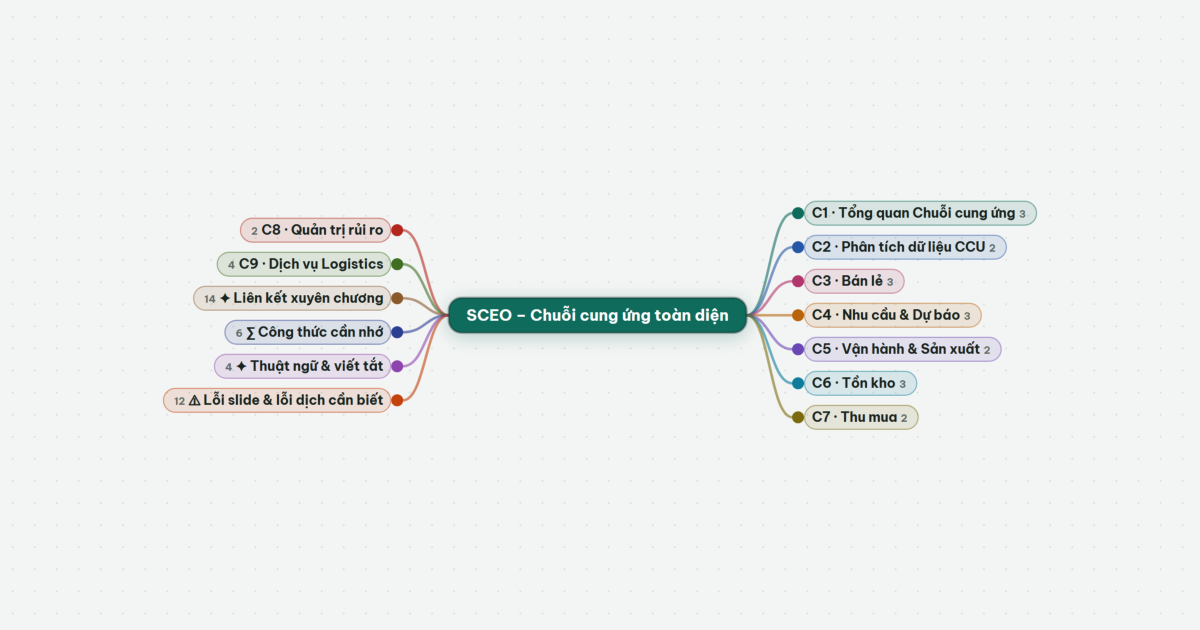
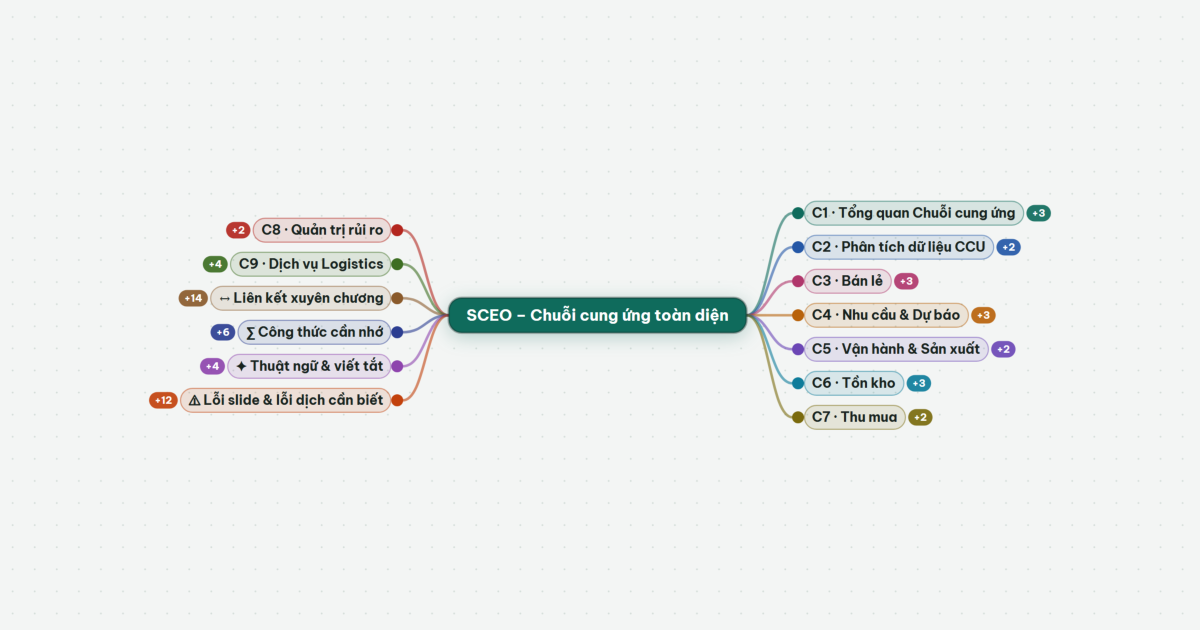
Thay số đếm trần bằng huy hiệu +N, thêm chú thích khi rê chuột
- Số trần (vd "12") trước tên nhánh dễ hiểu nhầm là số thứ tự/điểm → đổi thành
  huy hiệu "+12" màu theo nhánh, đặt ở đầu ngoài nơi nhánh con sẽ mọc ra
- Tooltip mỗi nút: tên đầy đủ + "N nhánh con – bấm để mở" / "bấm để thu gọn"
- Bảng chi tiết: "8 mục" thay cho số trần; chú thích giải thích +N và chấm đặc/rỗng
- Bấm vào chủ đề gốc không còn ẩn toàn bộ 13 nhánh
- Nhánh Liên kết xuyên chương dùng ký hiệu ↔ riêng (trước trùng ✦ với Thuật ngữ)
- Cập nhật ảnh xem trước chia sẻ

diff --git a/index.html b/index.html
@@ -393,10 +393,19 @@
       stroke-width: 2
     }
 
-    .node .cnt {
-      font-size: 11px;
-      font-weight: 700;
-      fill: var(--muted)
+    .node .badge text {
+      font: 700 11px var(--font);
+      fill: var(--surface) !important;
+      stroke: none;
+      text-decoration: none !important
+    }
+
+    .node .badge rect {
+      opacity: .92
+    }
+
+    .node:hover .badge rect {
+      opacity: 1
     }
 
     .node {
@@ -736,7 +745,8 @@
 
     .kids button small {
       flex: none;
-      font: 700 11px var(--mono);
+      font: 600 11.5px var(--font);
+      white-space: nowrap;
       color: var(--muted);
       background: var(--bg);
       border-radius: 999px;
@@ -1579,7 +1589,7 @@ SCEO – Chuỗi cung ứng toàn diện :: Bộ 9 chương VILAS SC Essentials 
         {!} Lưu ý dịch slide 7R :: Bản Việt thay “Đúng số lượng” bằng “Đúng chất lượng”. Bản gốc tiếng Anh là RIGHT QUANTITY – học theo bản gốc.
       Phương thức – Phương tiện – Loại hình :: • Phương thức (mode): đường bộ, biển, hàng không, sắt, ống. ¶• Phương tiện: tàu, sà lan, xe tải, máy bay… ¶• Loại hình (cách thực hiện vận chuyển): Đơn phương thức (1 mode) · Liên phương thức – Intermodal (nhiều mode, theo slide Việt: KHÔNG đổi phương tiện chứa hàng – VD cùng một container) · Đa phương thức – Multimodal (nhiều mode, CÓ thay đổi phương tiện) · Vận tải kết hợp – Combined (tùy biến linh hoạt theo yêu cầu). ¶(Bổ sung) Theo thông lệ quốc tế, đa phương thức thường chỉ do MỘT người kinh doanh vận tải đa phương thức chịu trách nhiệm theo MỘT hợp đồng/chứng từ.
       5 phương thức & phương tiện :: • HÀNG KHÔNG: Hàng kiện (Package) – đi bằng máy bay chở hàng (Freighter) hoặc khoang bụng máy bay khách (Belly hold) · Hàng siêu trọng (Heavy). ¶• ĐƯỜNG BIỂN: Hàng bách hóa đóng kiện (Break-bulk) · Hàng lỏng xá (Liquid bulk) · Tàu RoRo (xe tự lăn lên/xuống) · Hàng rời khô (Dry bulk) · Container (ISO tiêu chuẩn, lạnh – Reefer, mặt bằng – Flatrack, bồn – Tank). ¶  Thủy nội địa/ven biển: tàu sông–biển · tàu kéo sà lan (sà lan bồn, sà lan boong, sà lan hàng rời) · container. ¶• ĐƯỜNG SẮT: Tàu chuyên tuyến (Unit train) · Hàng theo toa (Carload: toa kín, toa bồn, toa sàn phẳng, toa lạnh, toa hàng rời đáy phễu, toa mở – Gondola) · Liên vận (Intermodal: TOFC – rơ moóc xe tải trên toa, container nội địa). ¶• ĐƯỜNG BỘ: Hàng kiện (Package) · Hàng lẻ (LTL) · Nguyên xe (TL: xe thùng kín – Dry van, xe bồn, sàn phẳng, bạt rèm, xe lạnh, xe hàng rời, xe mui trần, khung gầm chở container – Chassis). ¶• ĐƯỜNG ỐNG: dầu, khí, nước.
-  ✦ Liên kết xuyên chương :: Những khái niệm xuất hiện ở nhiều chương – hiểu mối nối giúp làm bài tình huống và trả lời câu hỏi tổng hợp.
+  ↔ Liên kết xuyên chương :: Những khái niệm xuất hiện ở nhiều chương – hiểu mối nối giúp làm bài tình huống và trả lời câu hỏi tổng hợp.
     {↔} S&OP :: C1 (Plan trong SCOR) → C4 (khung quản lý nhu cầu, tầm CY+3) → C5 (quy trình hằng tháng, một bộ số chung). Giải quyết mâu thuẫn Marketing – Vận hành – Tài chính ở C1.
     {↔} Nhu cầu phụ thuộc → MRP :: C4 (chỉ dự báo nhu cầu độc lập) → C5 (MPS + BOM → MRP) → C6 (MRP là một cách bổ sung tồn kho, L4L).
     {↔} ABC :: C4 (ABC + XYZ cho chiến lược dự báo) → C6 (ABC + FMR cho chiến lược tồn kho) → C7 (ưu tiên quan hệ NCC hàng A).
@@ -1704,13 +1714,15 @@ SCEO – Chuỗi cung ứng toàn diện :: Bộ 9 chương VILAS SC Essentials 
 
       function lbl(s, max) {return s.length > max ? s.slice(0, max - 1) + '…' : s}
       const labelOf = d => (d.data.tag ? ICON[d.data.tag] : '') + lbl(d.data.name, maxChars(d));
-      const countOf = d => d._children && !d.children ? ' ' + d._children.length : '';
+      // số nhánh con đang THU GỌN (0 nếu nhánh đang mở hoặc là lá) – hiển thị thành huy hiệu “+N” ở đầu ngoài nhánh
+      const countOf = d => d._children && !d.children ? d._children.length : 0;
       // gốc: điện thoại tách 2 dòng tại dấu “–” để khối trung tâm hẹp lại
       // gốc trên điện thoại: tách tại “–” rồi ngắt dòng ≤15 ký tự → khối trung tâm hẹp, nhường chỗ cho nhánh
       function wrap(s, n) {const out = []; let cur = ''; s.split(' ').forEach(w => {if (cur && (cur + ' ' + w).length > n) {out.push(cur); cur = w} else cur = cur ? cur + ' ' + w : w}); if (cur) out.push(cur); return out}
       const rootLines = () => isM() ? H.data.name.split(' – ').flatMap(p => wrap(p, 15)) : [H.data.name];
       // độ dài từ tâm nút tới mép ngoài nhãn (nơi đường nối tới con bắt đầu)
-      const ext = d => d.depth === 0 ? d.rw : d.depth === 1 ? d.tw + 24 : d.tw + 14;
+      const base = d => d.depth === 1 ? d.tw + 24 : d.tw + 14;          // tới cuối nhãn
+      const ext = d => d.depth === 0 ? d.rw : base(d) + (d.bw ? d.bw + 6 : 0);   // + huy hiệu nếu đang thu gọn
       const sideOf = d => d.depth === 0 ? 0 : d.side;
 
       function layoutTree() {
@@ -1721,7 +1733,8 @@ SCEO – Chuỗi cung ứng toàn diện :: Bộ 9 chương VILAS SC Essentials 
         H.descendants().forEach(d => {
           if (d.depth === 0) {const L = rootLines(); d.lines = L; d.rw = Math.max(...L.map(s => measure(s, FONT(d)))) / 2 + 18; d.rh = L.length * 20 + 18; return}
           d.label = labelOf(d); d.cnt = countOf(d);
-          d.tw = measure(d.label, FONT(d)) + (d.cnt ? measure(d.cnt, `700 11px ${FF}`) + 4 : 0);
+          d.tw = measure(d.label, FONT(d));
+          d.bw = d.cnt ? measure('+' + d.cnt, `700 11px ${FF}`) + 12 : 0;
         });
         // vị trí dọc: dàn riêng từng bên rồi canh để gốc nằm giữa mỗi bên
         const tree = d3.tree().nodeSize([dxv, 1]).separation((a, b) => (a.parent === b.parent ? 1 : 1.25) * (a.depth === 1 ? 1.32 : 1));
@@ -1785,6 +1798,9 @@ SCEO – Chuỗi cung ứng toàn diện :: Bộ 9 chương VILAS SC Essentials 
         en.filter(d => d.depth <= 1).append('rect').attr('class', d => d.depth === 0 ? 'root-box' : 'pill');
         en.filter(d => d.depth > 0).append('circle');
         en.append('text');
+        const eb = en.filter(d => d.depth > 0).append('g').attr('class', 'badge');
+        eb.append('rect'); eb.append('text');
+        en.append('title');   // chú thích khi rê chuột: tên đầy đủ + hướng dẫn
 
         const all = en.merge(nd);
         all.classed('sel', d => d === selected).classed('hit', d => hits.has(d.key))
@@ -1811,9 +1827,16 @@ SCEO – Chuỗi cung ứng toàn diện :: Bộ 9 chương VILAS SC Essentials 
           }
           const s = d.side, pad = d.depth === 1 ? 15 : 10;
           t.attr('text-anchor', s > 0 ? 'start' : 'end').attr('x', s * pad).attr('dy', '0.34em');
-          if (s > 0) {t.append('tspan').text(d.label); if (d.cnt) t.append('tspan').attr('class', 'cnt').attr('dx', 4).text(d.cnt.trim())}
-          else {if (d.cnt) t.append('tspan').attr('class', 'cnt').text(d.cnt.trim()); t.append('tspan').attr('dx', d.cnt ? 4 : 0).text(d.label)}
+          t.text(d.label);
         });
+        // huy hiệu “+N” = còn N nhánh con đang thu gọn; nằm ở đầu ngoài, đúng chỗ nhánh con sẽ mọc ra
+        all.select('g.badge').each(function (d) {
+          const b = d3.select(this).style('display', d.cnt ? null : 'none'); if (!d.cnt) return;
+          const x = d.side > 0 ? base(d) + 3 : -(base(d) + 3 + d.bw);
+          b.select('rect').attr('x', x).attr('y', -9).attr('width', d.bw).attr('height', 18).attr('rx', 9).style('fill', col(d));
+          b.select('text').attr('x', x + d.bw / 2).attr('dy', '0.35em').attr('text-anchor', 'middle').text('+' + d.cnt);
+        });
+        all.select('title').text(d => d.data.name + (d.depth === 0 ? '' : d._children ? (d.children ? ' · bấm để thu gọn' : ` · ${d._children.length} nhánh con – bấm để mở`) : ' · bấm để xem chi tiết'));
         // vùng chạm trong suốt phủ chấm + nhãn
         all.select('rect.ha').each(function (d) {
           const r = d3.select(this);
@@ -1822,7 +1845,8 @@ SCEO – Chuỗi cung ứng toàn diện :: Bộ 9 chương VILAS SC Essentials 
         });
         nodes.forEach(d => {d.x0 = d.x; d.y0 = d.y});
       }
-      function toggle(d) {if (!d._children) return; d.children = d.children ? null : d._children; update(d)}
+      // gốc không thu gọn được (trước đây bấm vào gốc làm biến mất toàn bộ 13 nhánh – dễ tưởng là lỗi)
+      function toggle(d) {if (!d._children || d.depth === 0) return; d.children = d.children ? null : d._children; update(d)}
 
       // khung bao tính từ dữ liệu bố cục (không đo DOM → đúng cả khi đang chạy hiệu ứng)
       function bounds(list) {
@@ -2002,9 +2026,9 @@ SCEO – Chuỗi cung ứng toàn diện :: Bộ 9 chương VILAS SC Essentials 
         h += `<div class="detail">${fmt(d.data.d, d.data.tag === 'f') || (d._children ? '' : '<p class="empty">Không có ghi chú thêm.</p>')}</div>`;
         if (d._children) {
           h += '<div class="kids"><h3>Nhánh con (' + d._children.length + ')</h3>' + d._children.map(c =>
-            `<button data-k="${c.key}" style="--kc:${col(c)}"><span>${c.data.tag ? ICON[c.data.tag] : ''}${esc(c.data.name)}</span>${c._children ? `<small>${c._children.length}</small>` : ''}</button>`).join('') + '</div>'
+            `<button data-k="${c.key}" style="--kc:${col(c)}"><span>${c.data.tag ? ICON[c.data.tag] : ''}${esc(c.data.name)}</span>${c._children ? `<small>${c._children.length} mục</small>` : ''}</button>`).join('') + '</div>'
         }
-        if (d.depth === 0) h += '<div class="legend"><h3>Ký hiệu</h3><span><b>ƒ</b> Công thức</span><span><b>▸</b> Ví dụ / bài tập</span><span><b>⚠' + VS + '</b> Lưu ý, lỗi slide</span><span><b>↔</b> Liên kết chương</span><span><b class="cnt">3</b> Số nhánh đang thu gọn</span></div>';
+        if (d.depth === 0) h += '<div class="legend"><h3>Ký hiệu</h3><span><b>ƒ</b> Công thức</span><span><b>▸</b> Ví dụ / bài tập</span><span><b>⚠' + VS + '</b> Lưu ý, lỗi slide</span><span><b>↔</b> Liên kết chương</span><span><b class="cnt">+3</b> Còn 3 nhánh con đang thu gọn – bấm để mở</span><span><b>●</b> chấm đặc = đang thu gọn · <b>○</b> chấm rỗng = đang mở</span></div>';
         panelBody.innerHTML = h; panelBody.scrollTop = 0;
         if (sheet) setSheet(sheet);
       }
@@ -2021,7 +2045,7 @@ SCEO – Chuỗi cung ứng toàn diện :: Bộ 9 chương VILAS SC Essentials 
       const chips = document.getElementById('chips');
       H._children.forEach(c => {
         const b = document.createElement('button'); b.className = 'chip';
-        const [cn, cs] = c.data.name.replace(/^[✦∑⚠]? /, '').split(' · ');
+        const [cn, cs] = c.data.name.replace(/^[✦∑⚠↔]? /, '').split(' · ');
         b.innerHTML = `<i style="background:${col(c)}"></i>${esc(cn)}` + (cs ? ` <span style="font-weight:500;color:var(--muted)">${esc(cs)}</span>` : '');
         b.onclick = () => {
           H._children.forEach(o => {if (o !== c) o.children = null});
